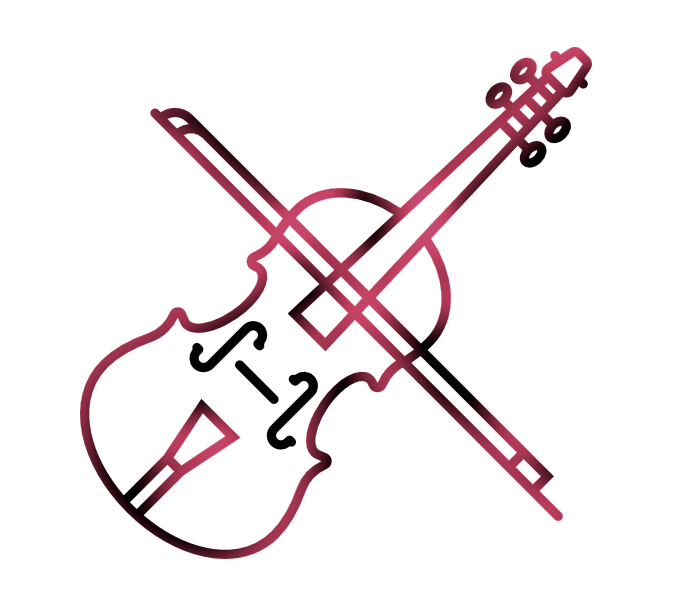
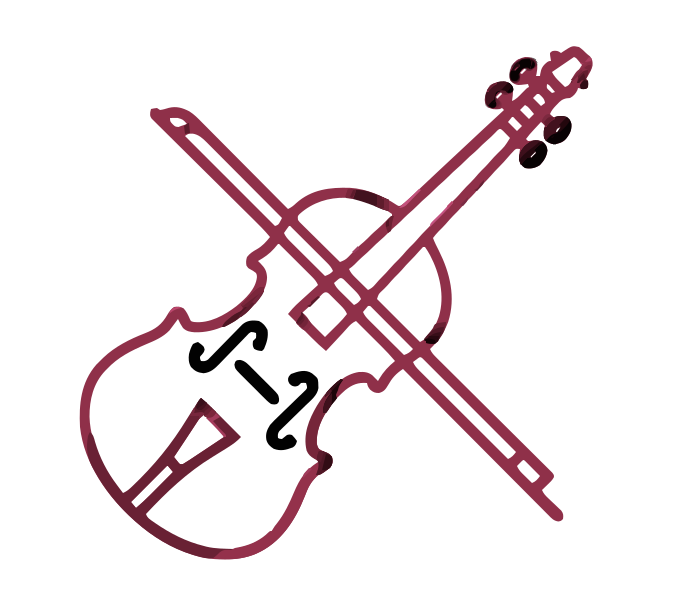
edit and swap svg to png vln

diff --git a/index.min.html b/index.min.html
@@ -1,1 +1,1 @@
-<!DOCTYPE html> <html lang="en"> <head> <meta charset="UTF-8"> <meta name="viewport" content="width=device-width,initial-scale=1"> <link rel="shortcut icon" href="assets/img/favicon.png" type="image/x-icon"> <link href="https://cdn.jsdelivr.net/npm/remixicon@3.0.0/fonts/remixicon.css" rel="stylesheet"> <link href="https://fonts.googleapis.com/css2?family=Roboto+Serif:ital,opsz,wght@0,8..144,100..900;1,8..144,100..900&display=swap" rel="stylesheet"> <link rel="stylesheet" href="assets/css/styles.css"> <title>Responsive portfolio website - Bedimcode</title> </head> <body> <header class="header" id="header"> <nav class="nav container"> <a href="#" class="nav__logo"> Joel <span>Rudin</span> </a> <div class="nav__menu show-menu" id="nav-menu"> <ul class="nav__list"> <li class="nav__item"> <a href="#home" class="nav__link active-link"> Home </a> </li> <li class="nav__item"> <a href="#about" class="nav__link"> About </a> </li> <li class="nav__item"> <a href="#services" class="nav__link"> Services </a> </li> <li class="nav__item"> <a href="#projects" class="nav__link"> Projects </a> </li> <li class="nav__item"> <a href="#contact" class="nav__link"> Contact </a> </li> </ul> <div class="nav__close" id="nav-close">  </div> </div> <div class="nav__toggle" id="nav-toggle">  </div> </nav> </header> <main class="main"> <div class="backgrnd_drk"> <section class="home section" id="home"> <div class="home__container container grid"> <div class="home__content"> <div class="home__data"> <h3 class="home__subtitle"> Hello, <span>I'm</span> </h3> <h1 class="home__title">Joel Rudin</h1> <h3 class="home__education">Front-end Developer</h3> <p class="home__description"> Offering fully functional websites with an aethetic look </p> <a href="#contact"><button class="button">Let's Talk</button></a> </div> <div class="home__social"> <a href="https://github.com/Jaliov/" target="_blank" class="home__social-link">  </a> <a href="www.linkedin.com/in/joel-rudin-39b44819" target="_blank" class="home__social-link">  </a> </div> </div> <div class="home__image"> <img src="assets\img\Joel_Rudin_2.jpg" alt="Joel Rudin headshot" width="200" height="auto" class="image-frame"> </div> </div></section> </div> <div class="backgrnd"> <section class="about__section" id="about"> <div class="about__container container grid"> <div class="about__data"> <h3 class="section__subtitle"> My <span>Intro</span> </h3> <h2 class="section__title"> About Me </h2> <p class="about__description"> Joel Rudin is a professional musician who creates websites, does graphic design and makes art. He holds a certificate from <strong> Rutgers Full Stack Coding Bootcamp</strong>, April, 2020. </p> <p class="about__description">He designed his first websites in 2011 using HTML, CSS and JavaScript and has continaully updated his skills ever since as the technology has advanced. He has a passion for frontend design and is always seeking to make the UI more unique and aethetic, as well as user friendly. </p> <a href="#contact"><button class="button" id="contactBtn">Contact</button></a> </div> <img src="assets\img\violin_icon_colorized.svg" class="about__blob" alt="violin icon image " width="100" height="auto"> </div> <image href="assets\img\violin_icon_colorized.svg" preserveAspectRatio="xMidYMid slice" width="1" height="1"> </section> </div> <div class="backgrnd_drk"> <section class="skills"> <div class="skills__container container grid"> <div class="skills__data"> <h3 class="section__subtitle" ;> Favorite <span>Skills</span> </h3> <h2 class="section__title"> My Skills </h2> <p class="skills__description"> All the tech I need to build lovely websites. </p> <a href="#projects"><button class="button contact__button">See projects</button></a> </div> <div class="skills__content"> <ol class="sills__group"> <li class="skills__item">HTML & CSS</li> <li class="skills__item">JavaScript</li> <li class="skills__item">Bootstrap</li> <li class="skills__item">React</li> </ol> <ol class="sills__group" start="5"> <li class="skills__item">Git & GitHub</li> <li class="skills__item">Node.js</li> <li class="skills__item">Mongodb/Mongoose</li> <li class="skills__item">Gimp</li> </ol> </div> </div> </section> </div> <div class="backgrnd"> <section class="services" id="services"> <h3 class="section__subtitle"> My <span>Services </span></h3> <h2 class="section__title"> What I Do </h2> <div class="services__container container grid"> <article class="services__card">  <h2 class="services__title">Web Developer</h2> <p class="services__description"> Development of custom web pages. </article> <article class="services__card">  <h2 class="services__title">Graphic Design</h2> <p class="services__description"> Digital designs for all needs </article> </div> </section> </div> <div class="backgrnd_drk"> <section class="projects" id="projects"> <h3 class="section__subtitle"> My <span>Creations</span> </h3> <h2 class="section__title"> Sample Projects </h2> <div class="projects__container container grid"> <article class="projects__card"> <img src="assets\img\joelrudinmusic.jpg" alt="projects image" class="projects__img"> <div class="projects__modal"> <h2 class="projects__title">Joel Rudin, violist</h2> <a href="https://www.joelrudinmusic.com" target="_blank" class="projects__button"> <strong>Visit site</strong> </a> <ul class="projects__subtitle"> <li>HTML</li> <li>CSS</li> <li>JavaScript</li> </ul> </div> </article> <article class="projects__card"> <img src="assets\img\lisabflamenco.jpg" alt="projects image" class="projects__img"> <div class="projects__modal"> <h2 class="projects__title-light">Lisa Botalico Flamenco!</h2> <a href="https://www.lisabflamenco.com/" target="_blank" class="projects__button-light"> <strong>Visit site</strong> </a> <ul class="projects__subtitle-light"> <li>HTML</li> <li>CSS</li> <li>JavaScript</li> <li>React</li> <li>React Bootstrap</li> <li>Simple React Lightbox</li> </ul> </div> </article> <article class="projects__card"> <img src="assets\img\WeatherAppImage.jpg" alt="projects image" class="projects__img"> <div class="projects__modal"> <span class="projects__subtitle">Web</span> <h2 class="projects__title">Weather App</h2> <a href="https://jaliov.github.io/Weather-Map/" target="_blank" class="projects__button"> Visit site </a> <ul class="projects__subtitle"> <li>HTML, CSS, JavaScript</li> <li>Bootstrap</li> <li>jQuery</li> <li>Moment.js</li> <li>Gimp</li> </ul> </div> </article>  <article class="projects__card"> <img src="assets\img\joelrudinart.jpg" alt="projects image" class="projects__img"> <div class="projects__modal"> <span class="projects__subtitle-light">Web</span> <h2 class="projects__title-light">The art of Joel Rudin</h2> <a href="https://www.joelrudinart.com/" target="_blank" class="projects__button-light"> Visit site </a> <ul class="projects__subtitle_light"> <li>HTML</li> <li>CSS</li> <li>Bootstrap</li> <li>JavaScript</li> <li>remix</li> </ul> </div> </article> <article class="projects__card"> <img src="assets\img\libbyramagewebsite.jpg" alt="projects image" class="projects__img"> <div class="projects__modal"> <span class="projects__subtitle">Web</span> <h2 class="projects__title">Artist Libby Ramage</h2> <a href="https://libbyramage.com" target="_blank" class="projects__button"> Visit site </a> <ul class="projects__subtitle_light"> <li>HTML</li> <li>CSS</li> <li>JavaScript</li> <li>remix</li> </ul> </div> </article> <article class="projects__card"> <img src="assets\img\violingreats.jpg" alt="projects image" class="projects__img"> <div class="projects__modal"> <span class="projects__subtitle">Web</span> <h2 class="projects__title-light">Great Violinists!</h2> <a href="https://violin-greats-566d1255af97.herokuapp.com/" target="_blank" class="projects__button-light"> Visit site </a> <ul class="projects__subtitle_light"> <li>HTML</li> <li>CSS</li> <li>JavaScript</li> <li>Bootstrap</li> <li>MongoDB/Mongoose</li> </ul> </div> </article> </div> </section> </div> <div class="backgrnd"> <section class="contact" id="contact"> <h3 class="section__subtitle"> Get In <span>Touch</span> </h3> <h2 class="section__title"> Contact Me </h2> <div class="contact__container container grid"> <form action="" class="contact__form" id="contact-form"> <div class="contact__group"> <input name="user_name" required placeholder="Enter your name" class="contact__input"> <input type="email" name="user_email" required placeholder="Enter your email" class="contact__input"> </div> <textarea name="user_project" required placeholder="Enter your message" class="contact__input"></textarea> <p class="contact__message" id="contact-message">Message</p> <a href=""> <button type="submit" class="button contact__button" id="message__send"> Send Message </button> </a> </form> </div> </section> </div></main>  <footer class="footer"> <div class="footer__container container grid"> <div> <h1 class="footer__title"> Joel <span>Rudin</span> </h1> <h2 class="footer__education"> Front-end Developer </h2> </div> <div class="footer__social"> <a href="https://www.facebook.com/" target="_blank" class="footer__social-link">  </a> <a href="https://www.instagram.com/nydur/" target="_blank" class="footer__social-link">  </a> <a href="" target="_blank" class="footer__social-link">  </a> </div> <span class="footer__copy"> Website design Joel Rudin based on Bedimcode </span> </div> </footer> <a href="#" class="scrollup" id="scroll-up">  </a> <script src="assets\js\scrollreveal.min.js"></script> <script src="https://cdn.jsdelivr.net/npm/@emailjs/browser@4/dist/email.min.js"></script> <script src="assets/js/main.js"></script> 
+<!DOCTYPE html> <html lang="en"> <head> <meta charset="UTF-8"> <meta name="viewport" content="width=device-width,initial-scale=1"> <link rel="shortcut icon" href="assets/img/favicon.png" type="image/x-icon"> <link href="https://cdn.jsdelivr.net/npm/remixicon@3.0.0/fonts/remixicon.css" rel="stylesheet"> <link href="https://fonts.googleapis.com/css2?family=Roboto+Serif:ital,opsz,wght@0,8..144,100..900;1,8..144,100..900&display=swap" rel="stylesheet"> <link rel="stylesheet" href="assets/css/styles.css"> <title>Responsive portfolio website - Bedimcode</title> </head> <body> <header class="header" id="header"> <nav class="nav container"> <a href="#" class="nav__logo"> Joel <span>Rudin</span> </a> <div class="nav__menu show-menu" id="nav-menu"> <ul class="nav__list"> <li class="nav__item"> <a href="#home" class="nav__link active-link"> Home </a> </li> <li class="nav__item"> <a href="#about" class="nav__link"> About </a> </li> <li class="nav__item"> <a href="#services" class="nav__link"> Services </a> </li> <li class="nav__item"> <a href="#projects" class="nav__link"> Projects </a> </li> <li class="nav__item"> <a href="#contact" class="nav__link"> Contact </a> </li> </ul> <div class="nav__close" id="nav-close">  </div> </div> <div class="nav__toggle" id="nav-toggle">  </div> </nav> </header> <main class="main"> <div class="backgrnd_drk"> <section class="home section" id="home"> <div class="home__container container grid"> <div class="home__content"> <div class="home__data"> <h3 class="home__subtitle"> Hello, <span>I'm</span> </h3> <h1 class="home__title">Joel Rudin</h1> <h3 class="home__education">Front-end Developer</h3> <p class="home__description"> Offering fully functional websites with an aethetic look </p> <a href="#contact"><button class="button">Let's Talk</button></a> </div> <div class="home__social"> <a href="https://github.com/Jaliov/" target="_blank" class="home__social-link">  </a> <a href="www.linkedin.com/in/joel-rudin-39b44819" target="_blank" class="home__social-link">  </a> </div> </div> <div class="home__image"> <img src="assets\img\Joel_Rudin_2.jpg" alt="Joel Rudin headshot" width="200" height="auto" class="image-frame"> </div> </div></section> </div> <div class="backgrnd"> <section class="about__section" id="about"> <div class="about__container container grid"> <div class="about__data"> <h3 class="section__subtitle"> My <span>Intro</span> </h3> <h2 class="section__title"> About Me </h2> <p class="about__description"> Joel Rudin is a professional musician who creates websites, does graphic design and makes art. He holds a certificate from <strong> Rutgers Full Stack Coding Bootcamp</strong>, April, 2020. </p> <p class="about__description">He designed his first websites in 2011 using HTML, CSS and JavaScript and has continaully updated his skills ever since as the technology has advanced. He has a passion for frontend design and is always seeking to make the UI more unique and aethetic, as well as user friendly. </p> <a href="#contact"><button class="button" id="contactBtn">Contact</button></a> </div> <img src="assets\img\violin_icon_colorized.png" class="about__blob" alt="violin icon image " width="100" height="auto"> </div> <image href="assets\img\violin_icon_colorized.png" preserveAspectRatio="xMidYMid slice" width="1" height="1"> </section> </div> <div class="backgrnd_drk"> <section class="skills"> <div class="skills__container container grid"> <div class="skills__data"> <h3 class="section__subtitle" ;> Favorite <span>Skills</span> </h3> <h2 class="section__title"> My Skills </h2> <p class="skills__description"> All the tech I need to build lovely websites. </p> <a href="#projects"><button class="button contact__button">See projects</button></a> </div> <div class="skills__content"> <ol class="sills__group"> <li class="skills__item">HTML & CSS</li> <li class="skills__item">JavaScript</li> <li class="skills__item">Bootstrap</li> <li class="skills__item">React</li> </ol> <ol class="sills__group" start="5"> <li class="skills__item">Git & GitHub</li> <li class="skills__item">Node.js</li> <li class="skills__item">Mongodb/Mongoose</li> <li class="skills__item">Gimp</li> </ol> </div> </div> </section> </div> <div class="backgrnd"> <section class="services" id="services"> <h3 class="section__subtitle"> My <span>Services </span></h3> <h2 class="section__title"> What I Do </h2> <div class="services__container container grid"> <article class="services__card">  <h2 class="services__title">Web Developer</h2> <p class="services__description"> Development of custom web pages. </article> <article class="services__card">  <h2 class="services__title">Graphic Design</h2> <p class="services__description"> Digital designs for all needs </article> </div> </section> </div> <div class="backgrnd_drk"> <section class="projects" id="projects"> <h3 class="section__subtitle"> My <span>Creations</span> </h3> <h2 class="section__title"> Sample Projects </h2> <div class="projects__container container grid"> <article class="projects__card"> <img src="assets\img\joelrudinmusic.jpg" alt="projects image" class="projects__img"> <div class="projects__modal"> <h2 class="projects__title">Joel Rudin, violist</h2> <a href="https://www.joelrudinmusic.com" target="_blank" class="projects__button"> <strong>Visit site</strong> </a> <ul class="projects__subtitle"> <li>HTML</li> <li>CSS</li> <li>JavaScript</li> </ul> </div> </article> <article class="projects__card"> <img src="assets\img\lisabflamenco.jpg" alt="projects image" class="projects__img"> <div class="projects__modal"> <h2 class="projects__title-light">Lisa Botalico Flamenco!</h2> <a href="https://www.lisabflamenco.com/" target="_blank" class="projects__button-light"> <strong>Visit site</strong> </a> <ul class="projects__subtitle-light"> <li>HTML</li> <li>CSS</li> <li>JavaScript</li> <li>React</li> <li>React Bootstrap</li> <li>Simple React Lightbox</li> </ul> </div> </article> <article class="projects__card"> <img src="assets\img\WeatherAppImage.jpg" alt="projects image" class="projects__img"> <div class="projects__modal"> <span class="projects__subtitle">Web</span> <h2 class="projects__title">Weather App</h2> <a href="https://jaliov.github.io/Weather-Map/" target="_blank" class="projects__button"> Visit site </a> <ul class="projects__subtitle"> <li>HTML, CSS, JavaScript</li> <li>Bootstrap</li> <li>jQuery</li> <li>Moment.js</li> <li>Gimp</li> </ul> </div> </article>  <article class="projects__card"> <img src="assets\img\joelrudinart.jpg" alt="projects image" class="projects__img"> <div class="projects__modal"> <span class="projects__subtitle-light">Web</span> <h2 class="projects__title-light">The art of Joel Rudin</h2> <a href="https://www.joelrudinart.com/" target="_blank" class="projects__button-light"> Visit site </a> <ul class="projects__subtitle_light"> <li>HTML</li> <li>CSS</li> <li>Bootstrap</li> <li>JavaScript</li> <li>remix</li> </ul> </div> </article> <article class="projects__card"> <img src="assets\img\libbyramagewebsite.jpg" alt="projects image" class="projects__img"> <div class="projects__modal"> <span class="projects__subtitle">Web</span> <h2 class="projects__title">Artist Libby Ramage</h2> <a href="https://libbyramage.com" target="_blank" class="projects__button"> Visit site </a> <ul class="projects__subtitle_light"> <li>HTML</li> <li>CSS</li> <li>JavaScript</li> <li>remix</li> </ul> </div> </article> <article class="projects__card"> <img src="assets\img\violingreats.jpg" alt="projects image" class="projects__img"> <div class="projects__modal"> <span class="projects__subtitle">Web</span> <h2 class="projects__title-light">Great Violinists!</h2> <a href="https://violin-greats-566d1255af97.herokuapp.com/" target="_blank" class="projects__button-light"> Visit site </a> <ul class="projects__subtitle_light"> <li>HTML</li> <li>CSS</li> <li>JavaScript</li> <li>Bootstrap</li> <li>MongoDB/Mongoose</li> </ul> </div> </article> </div> </section> </div> <div class="backgrnd"> <section class="contact" id="contact"> <h3 class="section__subtitle"> Get In <span>Touch</span> </h3> <h2 class="section__title"> Contact Me </h2> <div class="contact__container container grid"> <form action="" class="contact__form" id="contact-form"> <div class="contact__group"> <input name="user_name" required placeholder="Enter your name" class="contact__input"> <input type="email" name="user_email" required placeholder="Enter your email" class="contact__input"> </div> <textarea name="user_project" required placeholder="Enter your message" class="contact__input"></textarea> <p class="contact__message" id="contact-message">Message</p> <a href=""> <button type="submit" class="button contact__button" id="message__send"> Send Message </button> </a> </form> </div> </section> </div></main>  <footer class="footer"> <div class="footer__container container grid"> <div> <h1 class="footer__title"> Joel <span>Rudin</span> </h1> <h2 class="footer__education"> Front-end Developer </h2> </div> <div class="footer__social"> <a href="https://www.facebook.com/" target="_blank" class="footer__social-link">  </a> <a href="https://www.instagram.com/nydur/" target="_blank" class="footer__social-link">  </a> <a href="" target="_blank" class="footer__social-link">  </a> </div> <span class="footer__copy"> Website design Joel Rudin based on Bedimcode </span> </div> </footer> <a href="#" class="scrollup" id="scroll-up">  </a> <script src="assets\js\scrollreveal.min.js"></script> <script src="https://cdn.jsdelivr.net/npm/@emailjs/browser@4/dist/email.min.js"></script> <script src="assets/js/main.js"></script> 

diff --git a/index.html b/index.html
@@ -139,11 +139,11 @@
                </div>
           <!-- <div class="home__image"> -->
 
-               <img src="assets\img\violin_icon_colorized.svg" class="about__blob" alt="violin icon image " width="100"
+               <img src="assets\img\violin_icon_colorized.png" class="about__blob" alt="violin icon image " width="100"
                   height="auto">
             </div>
            
-            <image href="assets\img\violin_icon_colorized.svg" preserveAspectRatio="xMidYMid slice" width="1"
+            <image href="assets\img\violin_icon_colorized.png" preserveAspectRatio="xMidYMid slice" width="1"
                height="1" />
          
          </section>
